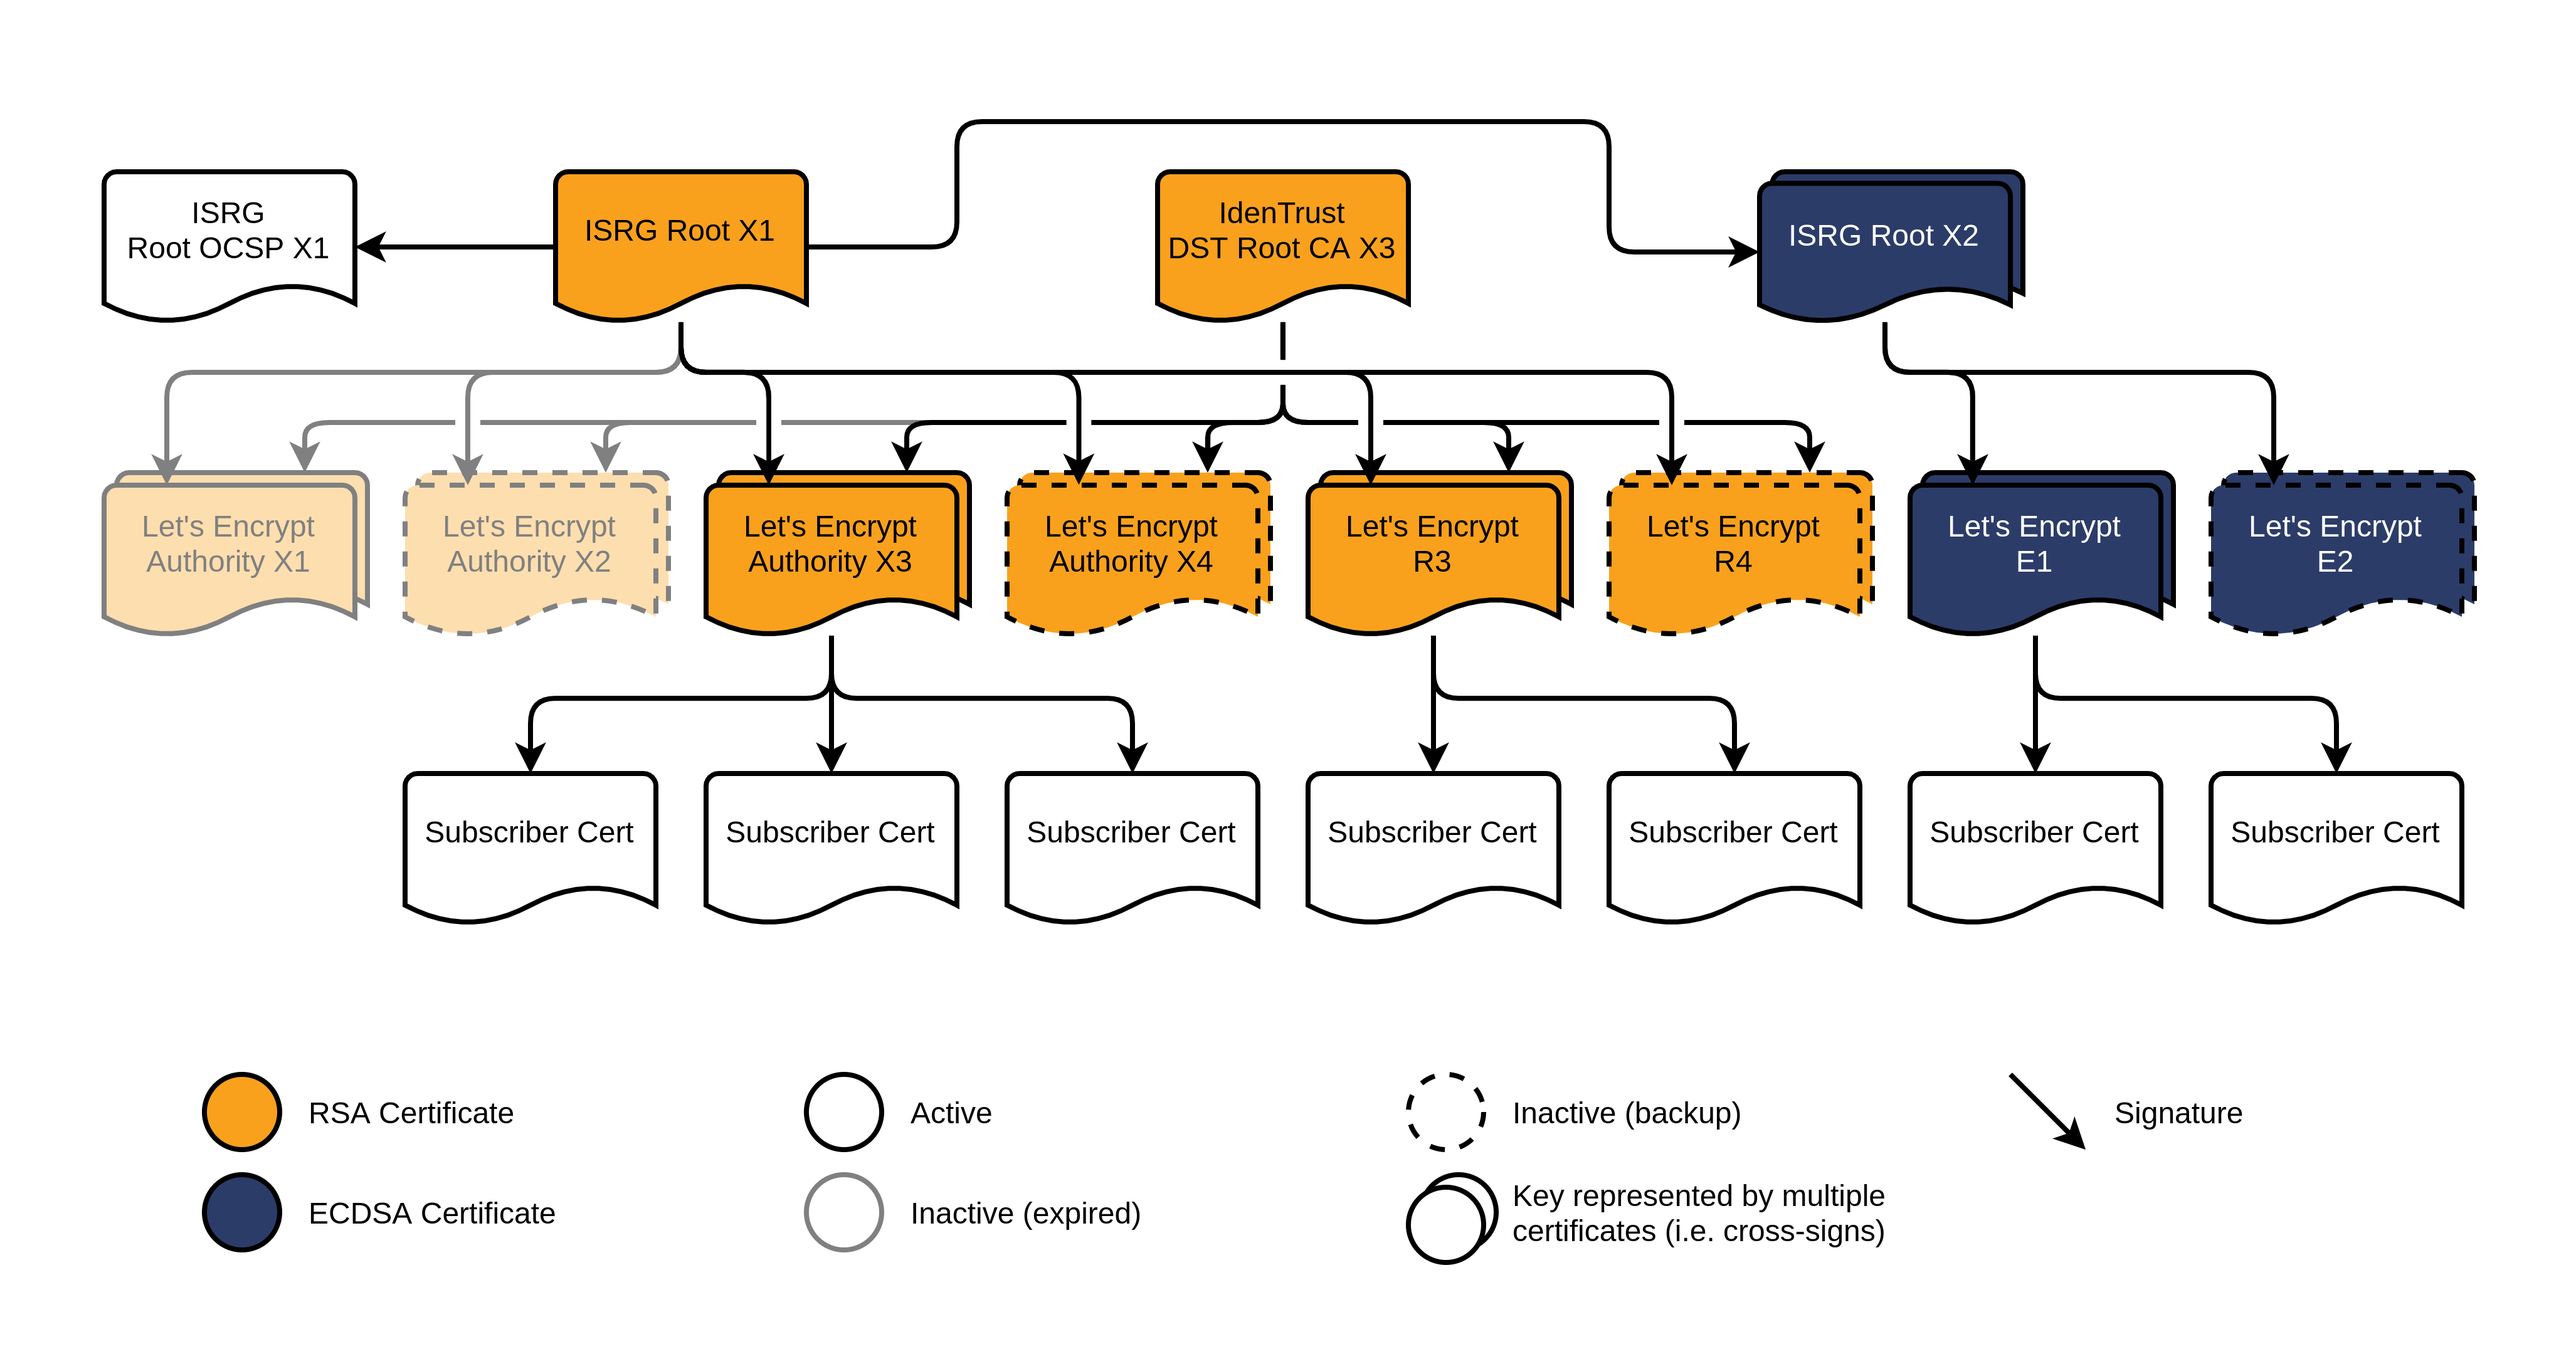
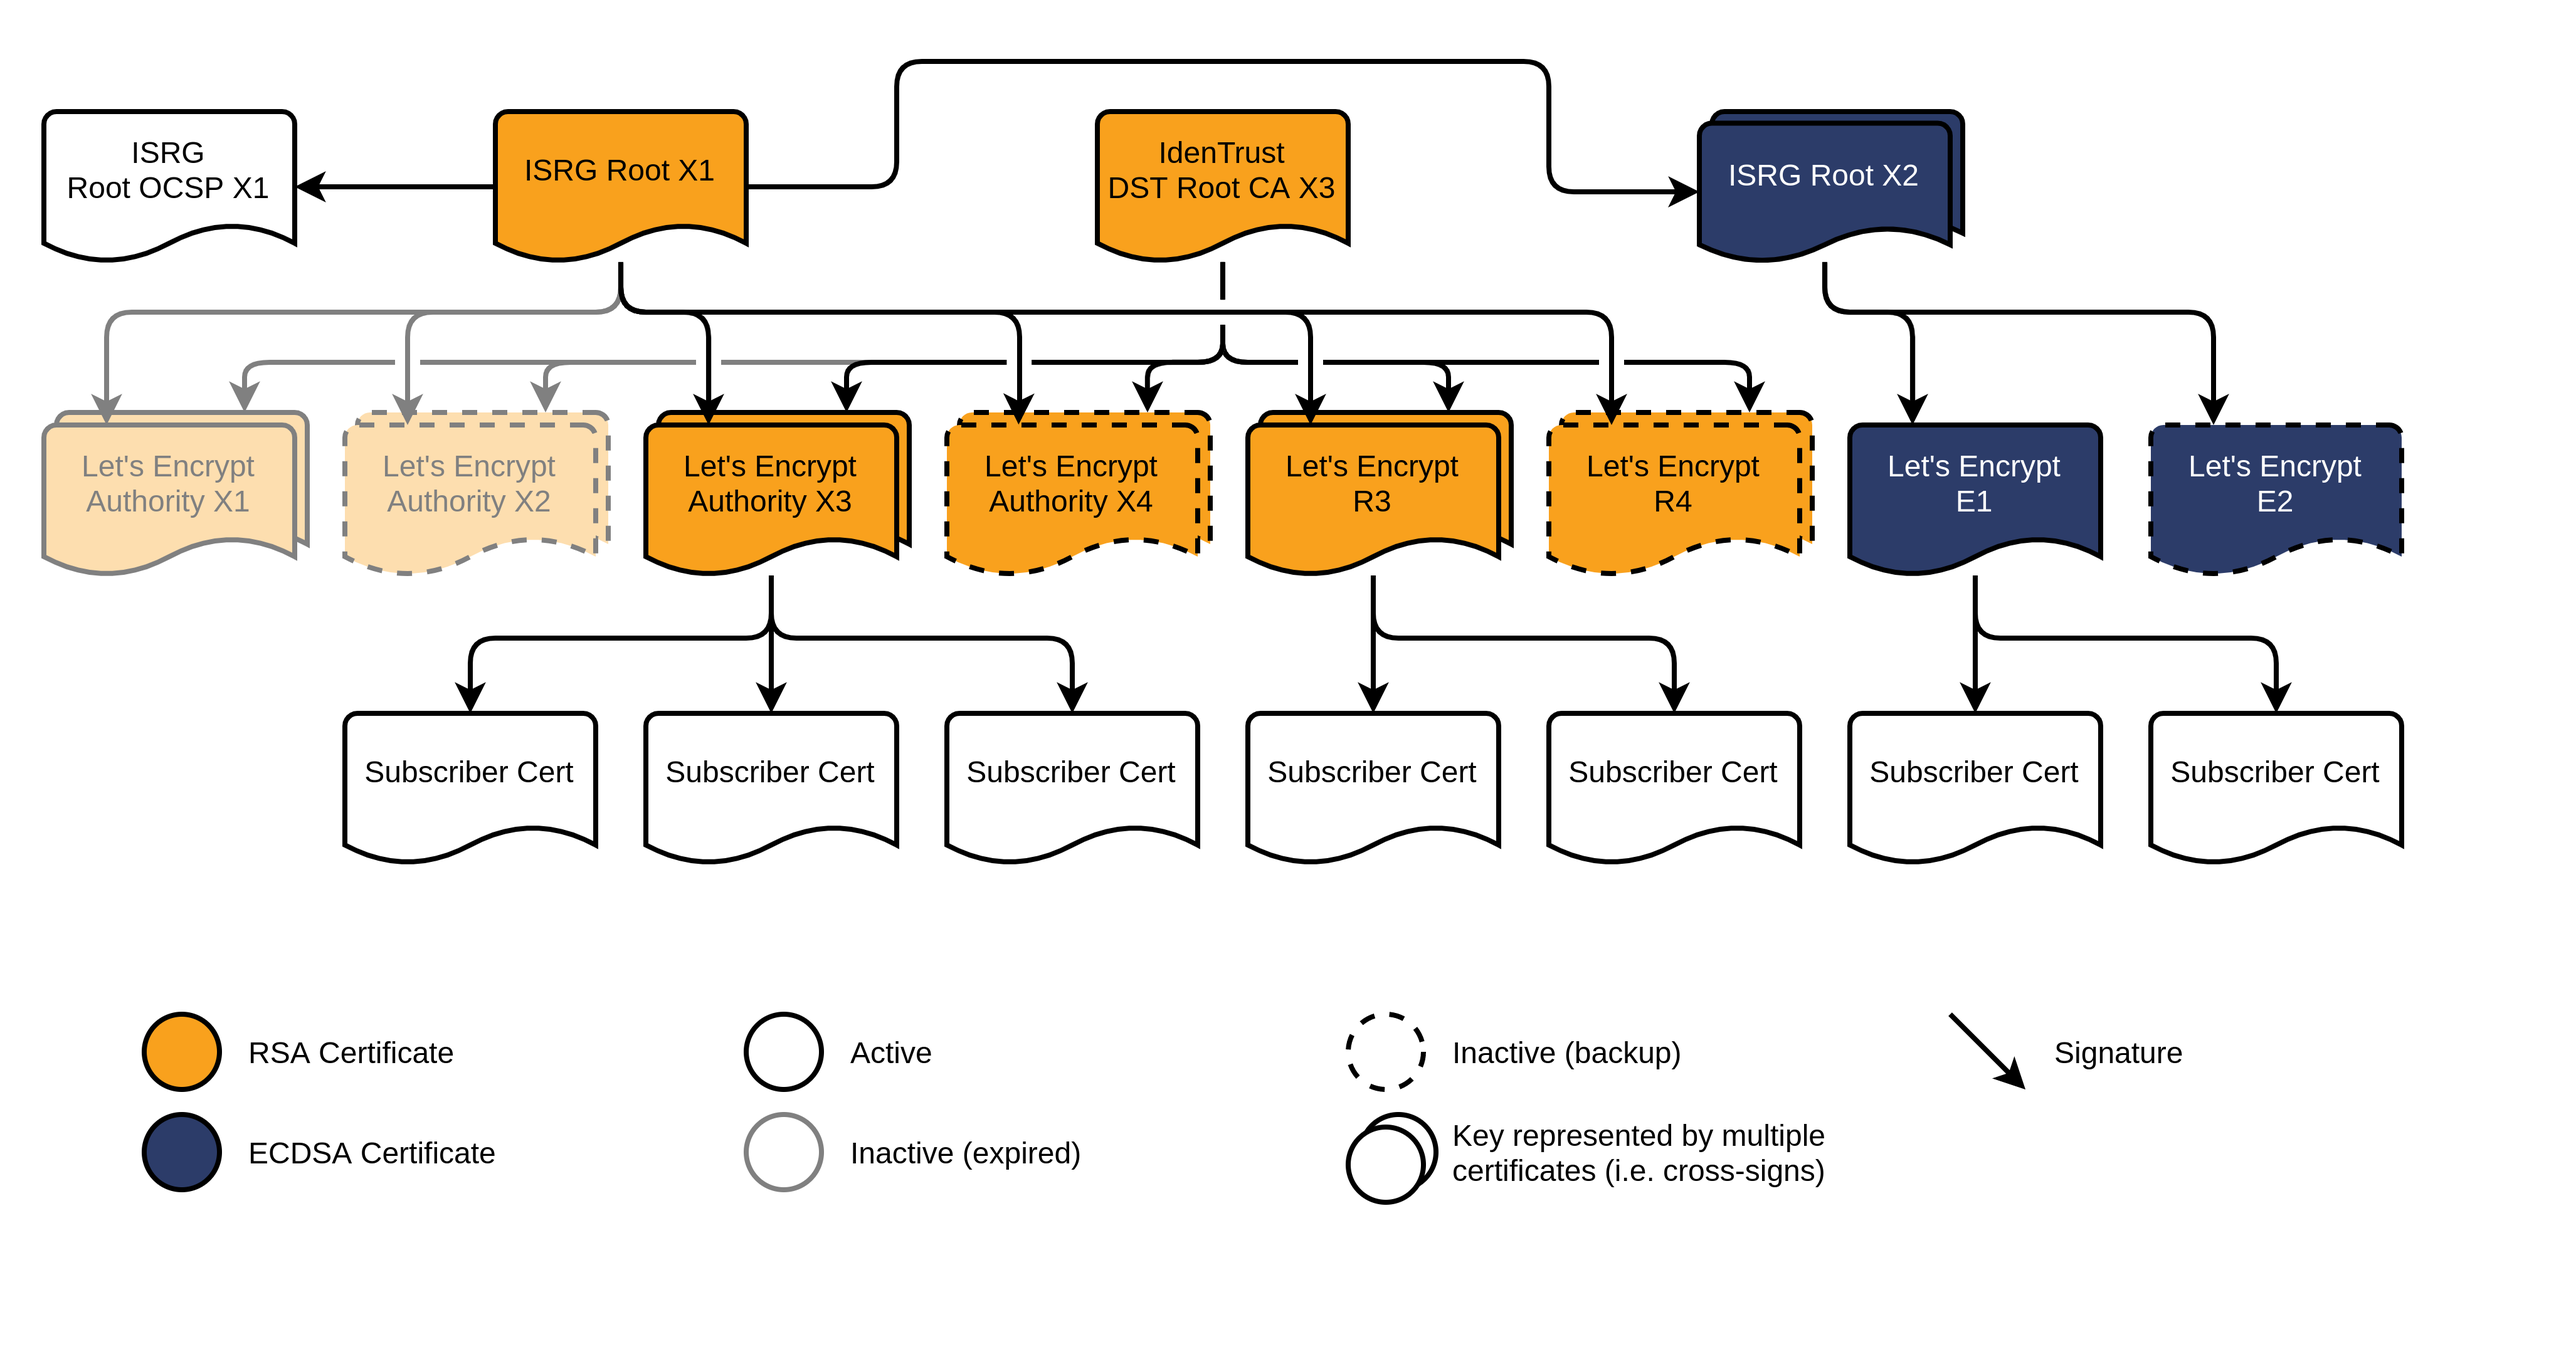
Additional updates to /certificates page (#1103)
* Add links to searches for certs issued by E1 and R3

* Also remove cross-signs from E1/2 in diagram

diff --git a/content/en/certificates.md b/content/en/certificates.md
@@ -3,7 +3,7 @@ title: Chain of Trust
 linkTitle: Chain of Trust (Root and Intermediate Certificates)
 slug: certificates
 top_graphic: 5
-lastmod: 2020-08-03
+lastmod: 2020-08-04
 ---
 
 {{< lastmod >}}
@@ -106,7 +106,7 @@ sign those responses. A copy of this certificate is included automatically in
 those OCSP responses, so Subscribers don't need to do anything with it. It is
 included here for informational purposes only.
 
-* [ISRG Root OCSP X1 (Signed by ISRG Root X1)](/certs/isrg-root-ocsp-x1.pem.txt)
+* ISRG Root OCSP X1 (Signed by ISRG Root X1): [der](/certs/isrg-root-ocsp-x1.der), [pem](/certs/isrg-root-ocsp-x1.pem), [txt](/certs/isrg-root-ocsp-x1.txt)
 
 Our newer intermediates do not have OCSP URLs (their revocation information is 
 instead served via CRL), so we have not issued an OCSP Signing Cert from ISRG Root X2.
@@ -120,6 +120,8 @@ issued Let's Encrypt certificates via these links:
 
 * [Issued by Let's Encrypt Authority X1](https://crt.sh/?Identity=%25&iCAID=7395)
 * [Issued by Let's Encrypt Authority X3](https://crt.sh/?Identity=%25&iCAID=16418)
+* [Issued by E1](https://crt.sh/?Identity=%25&iCAID=183283)
+* [Issued by R3](https://crt.sh/?Identity=%25&iCAID=183267)
 
 # More Info
 
